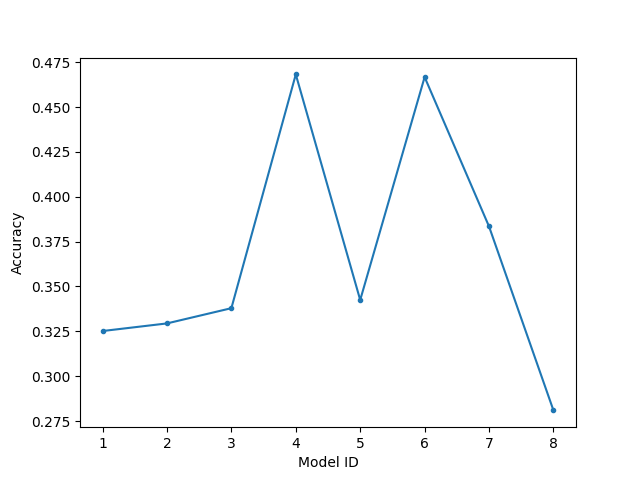
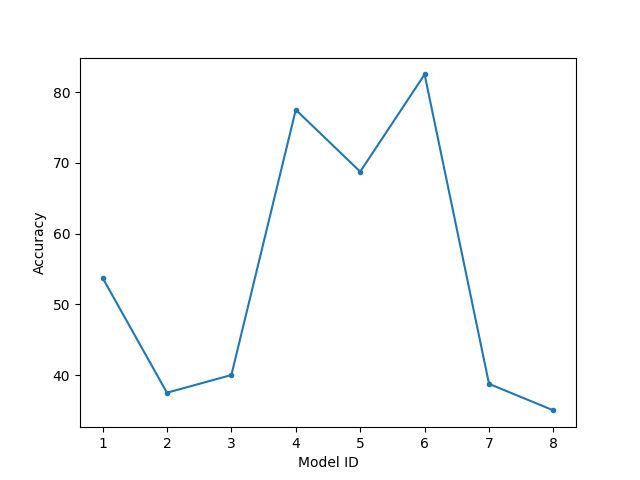
evaluación terminada

diff --git a/trainer/model_trainer/lib.py b/trainer/model_trainer/lib.py
@@ -38,36 +38,31 @@ class AnalogiesDatasetReader(object):
         for line in open(self.dataset_path, encoding='utf-8'):
             yield line.split()
 
-    def evaluate(self, models_dir: str) -> dict:
+    def evaluate(self, models_dir: str, topn: int) -> dict:
         results = []
         i = 0
         for file_name in os.listdir(models_dir):
-            if ".npy" not in file_name:
+            if '.npy' not in file_name:
                 i += 1
                 if 'fasttext' in file_name:
                     model = FastText.load(os.path.join(models_dir, file_name))
                 else:
                     model = Word2Vec.load(os.path.join(models_dir, file_name))
 
-                positions = []
                 marks = []
 
                 for analogy in self.analogies():
                     try:
                         similars = model.wv.most_similar(
-                            negative=[analogy[0]], positive=[analogy[1], analogy[2]])
+                            negative=[analogy[0]], positive=[analogy[1], analogy[2]], topn=topn)
                     except KeyError:
-                        positions.append(-1)
-                        marks.append(0)
+                        marks.append(topn)
                     else:
-                        similar = next(((index, tuple) for (index, tuple) in enumerate(
-                            similars) if tuple[0] == analogy[3]), None)
+                        similar = next(((index, tuple) for (index, tuple) in enumerate(similars) if tuple[0] == analogy[3]), None)
                         if similar is None:
-                            positions.append(-1)
-                            marks.append(0)
+                            marks.append(topn)
                         else:
-                            positions.append(similar[0])
-                            marks.append(similar[1][1])
+                            marks.append(similar[0])
 
                 results.append(
                     {
@@ -75,9 +70,8 @@ class AnalogiesDatasetReader(object):
                         "model_name": file_name,
                         "window": model.window,
                         "vector_size": model.vector_size,
-                        "positions": positions,
                         "marks": marks,
-                        "accuracy": statistics.mean(marks)
+                        "accuracy": 100 - (100/len(marks) * sum(marks)/topn)
                     }
                 )
 

diff --git a/trainer/model_trainer/train.py b/trainer/model_trainer/train.py
@@ -15,9 +15,9 @@ if __name__ == '__main__':
         models_dir = './out/models'
         os.makedirs('./out')
         os.makedirs(models_dir)
-        
+
         vector_sizes = [200, 500]
-        windows = [1,4]
+        windows = [1, 4]
 
         init_time = time.time()
 
@@ -45,15 +45,15 @@ if __name__ == '__main__':
                 print(f'Time taken : {(time.time() - partial_time) / 60:.2f} mins')
                 model.save(models_dir + '/word2vec_' + str(i) + '.model')
                 print('Model word2vec_' + str(i) + ' saved\n')
-        
+
         print('Evaluating the models...')
         partial_time = time.time()
-        results = dataset.evaluate(models_dir=models_dir)
+        results = dataset.evaluate(models_dir=models_dir, topn=8)
         plot = makeplots(results)
         plot.savefig("out/figure.png")
         with open('out/results.json', 'w') as f:
             json.dump(results, f)
         print(f'Time taken : {(time.time() - partial_time) / 60:.2f} mins')
         print('Results report saved in ./out\n')
-        
+
         print(f'Total time taken : {(time.time() - init_time) / 60:.2f} mins\n')

diff --git a/trainer/model_trainer/analogies.py b/trainer/model_trainer/analogies.py
@@ -1,0 +1,8 @@
+from gensim.models import Word2Vec
+
+
+model = Word2Vec.load('models/fasttext_1.model')
+
+print('hombre es a hombres lo que mujer es a ...')
+print(model.wv.most_similar(negative=['hombre'], positive=['hombres', 'mujer'])) # MUJERES - PRURALIDAD
+print('\n')
